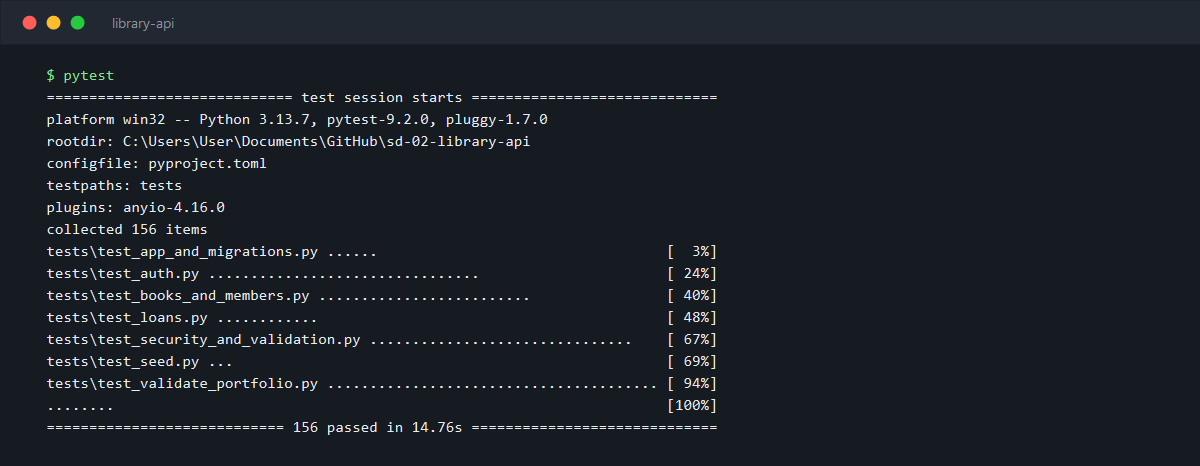
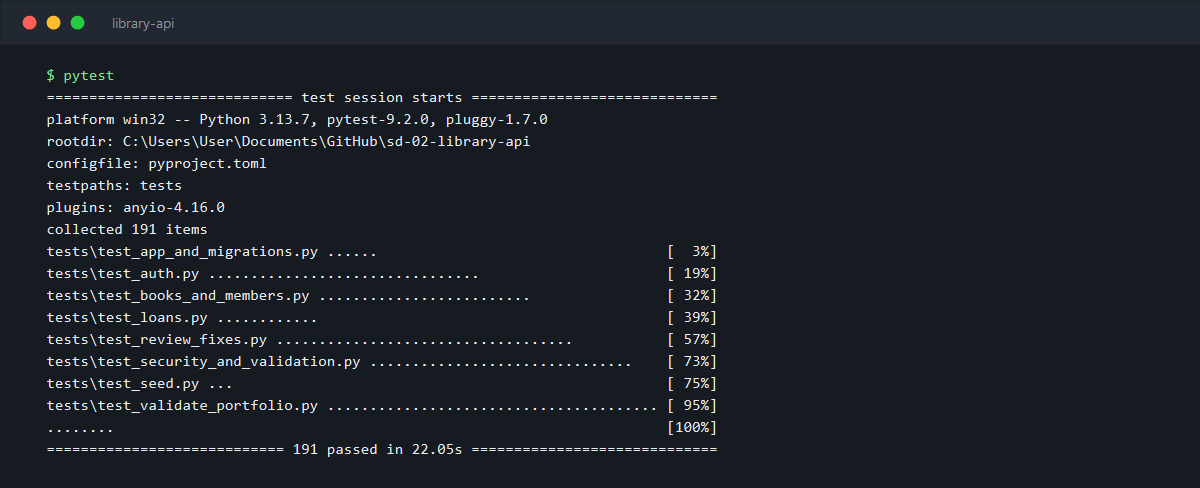
Release 1.0.1 after the quality review
Status complete, a Changes section, the owner's decisions recorded,
and the thumbnail and test images taken again from this version.

Changed region(s): [[0.0308, 0.1502, 0.6167, 0.9313], [0.0925, 0.03, 0.1542, 0.0601], [0.0, 0.03, 0.0617, 0.0601]]

diff --git a/README.md b/README.md
@@ -2,7 +2,7 @@
 
 A REST API for a small library: books, members and loans in PostgreSQL, with validation, paging, token login and an OpenAPI page.
 
-> **Status:** pending quality review. This project has not had its final review yet.
+> **Status:** complete. Passed its quality review on 2026-11-23 (version 1.0.1).
 
 ## Demo
 
@@ -91,9 +91,9 @@ uvicorn library_api.app:create_app --factory --reload
 | `POST /loans/{id}/return` | yes | Marks the loan as returned today. |
 | `GET /health` | | Says whether the API and its database answer (503 if the database does not). |
 
-Every list takes `limit` (1 to 100, default 20) and `offset`, and returns `items`, `total`, `limit` and `offset`.
+Every list takes `limit` (1 to 100, default 20) and `offset`, and returns `items`, `total`, `limit` and `offset`. The search text `q` is plain text of up to 200 characters: `%` and `_` are searched as themselves, not as wildcards. Ids go from 1 to 2,147,483,647, the largest number PostgreSQL's `integer` column holds.
 
-Answers use the usual status codes: 401 without a valid token, 404 for a missing item, 409 when a request clashes with the data (an ISBN or email already used, a book already lent, a loan already returned, deleting a book or member with loans), and 422 for invalid input, naming the field.
+Answers use the usual status codes: 401 without a valid token, 404 for a missing item, 409 when a request clashes with the data (an ISBN or email already used, a book already lent, a loan already returned, deleting a book or member with loans), and 422 for invalid input, naming the field. Invalid input includes ids or offsets out of range, and text with control characters such as NUL or a tab.
 
 ## How it works
 
@@ -119,7 +119,7 @@ The schema and the design choices are in [docs/decisions.md](docs/decisions.md).
 
 | Check | Result |
 |---|---|
-| Tests | 156 pass, on SQLite and on PostgreSQL 18 |
+| Tests | 191 pass, on SQLite and on PostgreSQL 18 |
 | Protected endpoints | each of the 12 is tested without a token and with a forged one (401) |
 | Lint (`ruff check .`) | passes |
 | Migrations | a test checks that they match the models, and that they can be undone and redone |
@@ -150,6 +150,17 @@ python scripts/validate_portfolio.py
 - Passwords use scrypt with N=2^14 to keep logins fast; OWASP recommends N=2^17 for production.
 - No rate limiting on the login endpoint.
 - The demo data is made up, including the ISBNs (valid check digits, but not real editions).
+
+## Changes
+
+**1.0.1** (2026-11-23), after the quality review:
+
+- An id above 2,147,483,647 (in the address, a filter or a request body), or an `offset` above 9.2 quintillion, crashed the request with a 500 error, because PostgreSQL could not hold the number. Ids must now be 1 to 2,147,483,647 and offsets at most 2,147,483,647; anything else gets a 422 answer.
+- A NUL character in a title, a name, an email or a search crashed the request with a 500 error, because PostgreSQL refuses it. Text with a control character (NUL, a tab, a line break and the like) now gets a 422 answer. A username with one is refused like a wrong password.
+- `%` and `_` in a search worked as wildcards: `?q=%` listed every book. The search now treats every character as plain text.
+- ISBNs written with other digit forms (for example Arabic-Indic digits) passed the format check. Only the digits 0 to 9 are accepted now.
+- The API now logs a warning at start-up when `JWT_SECRET` is still the public example from `.env.example`.
+- Each of these has a test that failed before the fix: 35 new tests, 191 in total.
 
 ## Considered improvements
 

diff --git a/docs/decisions.md b/docs/decisions.md
@@ -16,6 +16,10 @@ a choice made by the project owner; the others were made while building it.
 | 2026-11-22 | Tests run on SQLite by default and on PostgreSQL in CI | PostgreSQL only | `pytest` works on a fresh clone without Docker. CI runs the same tests on PostgreSQL, the real database. Both databases are built by the real migrations. |
 | 2026-11-22 | The API container runs the migrations before it starts | a separate migration step | `docker compose up` is the only command a visitor needs. |
 | 2026-11-22 | Settings come from environment variables, with `.env.example` | a settings file | Docker Compose and CI pass environment variables; no secret is ever in the repository. |
+| 2026-11-23 | Ids and offsets above 2,147,483,647 are refused with 422 (owner) | let the database fail (500), use bigint columns | A library will never need such numbers, so they are refused before they reach the database. |
+| 2026-11-23 | Text with control characters is refused with 422 (owner) | strip them silently | PostgreSQL refuses NUL, and none of them belongs in a title, a name or a search. Refusing them tells the caller what is wrong. |
+| 2026-11-23 | Search is plain text: `%` and `_` are not wildcards (owner) | keep the wildcards | A search finds the text that was typed, and nothing else. |
+| 2026-11-23 | A warning at start-up when JWT_SECRET is the public example (owner) | refuse to start, only the README note | The one-command quick start keeps working, and the log says plainly what to change before others can reach the API. |
 
 ## Schema
 
